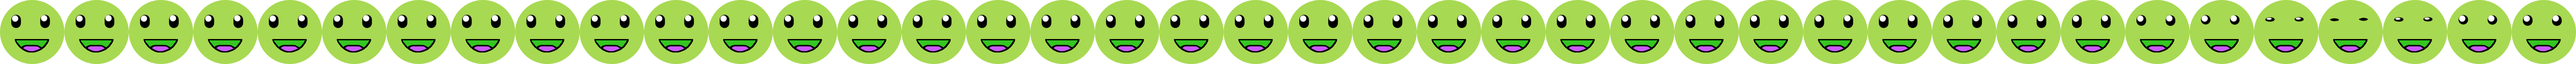
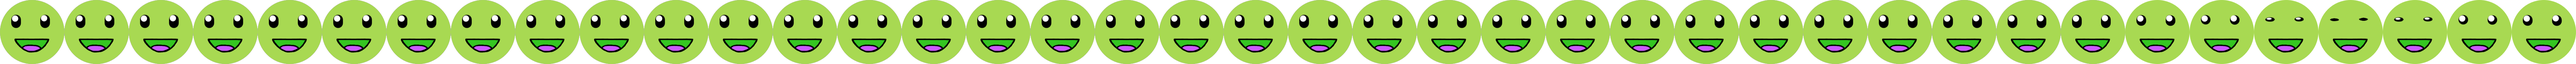
more faces

diff --git a/Code/core/src/edu/cornell/gdiac/controller/PlayMode.java b/Code/core/src/edu/cornell/gdiac/controller/PlayMode.java
@@ -62,11 +62,10 @@ public class PlayMode extends WorldController implements ContactListener {
 
 
     protected static final String OOB_NORMAL_FILE =   "space/animations/OobNeutral.png";
-    //"space/planets/start.png";
-    protected static final String OOB_GROWING_FILE = "space/animations/blackHoleAnim.png";
+    protected static final String OOB_GROWING_FILE = "space/animations/OobEating.png";
     protected static final String OOB_COMMAND_FILE = "space/animations/explosionAnim.png";
     protected static final String OOB_FLYING_FILE = "space/animations/OobBlink.png";
-    protected static final String OOB_TELEPORTING_FILE = "space/animations/oobHappy.png";
+    protected static final String OOB_TELEPORTING_FILE = "space/animations/OobSurprised.png";
     protected static final String OOB_HURTING_FILE = "space/animations/OobSad.png";
     protected static final String OOB_DYING_FILE = "space/animations/OobDying.png";
     protected static final String OOB_MAX_FILE = "space/animations/sunAnim.png";
@@ -114,7 +113,7 @@ public class PlayMode extends WorldController implements ContactListener {
     protected static final String RED_P_3 = "space/planets/red3.png";
     //private static final String RED_P_4 = "space/planets/red.png";
 
-    protected static final String ASTEROID = "space/planets/asteroid.png";
+    protected static final String ASTEROID = "space/planets/asteroidBelt.png";
 
     /** The texture file for the planet animations */
     protected static final String SUN_P = "space/animations/sunAnim.png";
@@ -961,7 +960,7 @@ public class PlayMode extends WorldController implements ContactListener {
             obj.setFriction(BASIC_FRICTION);
             obj.setRestitution(BASIC_RESTITUTION);
             obj.setDrawScale(scale);
-            obj.scalePicScale(new Vector2(.2f * obj.getRadius(), .2f * obj.getRadius()));
+            obj.scalePicScale(new Vector2(.19f * obj.getRadius(), .19f * obj.getRadius()));
             obj.setName(pname);
             if (obj.getType() == 0f || obj.getType() == 3f) {
 
@@ -1960,24 +1959,25 @@ public class PlayMode extends WorldController implements ContactListener {
                     if ( ((ComplexOobModel) obj).isDying() ) {
                         currentFrame =  ((ComplexOobModel) obj).get_Dying_anim().getKeyFrame(stateTime, true);
                     }
+                    ((ComplexOobModel) obj).setTexture(currentFrame);
 
-                    Texture texture = currentFrame.getTexture();
-                    if(!texture.getTextureData().isPrepared())
-                        texture.getTextureData().prepare();
-                    Pixmap pixmap = texture.getTextureData().consumePixmap();
-                    Pixmap newPixmap = new Pixmap(currentFrame.getRegionWidth(), currentFrame.getRegionHeight(), pixmap.getFormat());
+//                    Texture texture = currentFrame.getTexture();
+//                    if(!texture.getTextureData().isPrepared())
+//                        texture.getTextureData().prepare();
+//                    Pixmap pixmap = texture.getTextureData().consumePixmap();
+//                    Pixmap newPixmap = new Pixmap(currentFrame.getRegionWidth(), currentFrame.getRegionHeight(), pixmap.getFormat());
+//
+//                    newPixmap.drawPixmap(pixmap, 0, 0, currentFrame.getRegionWidth(), 0, currentFrame.getRegionWidth(), currentFrame.getRegionHeight());
+//
+//                    ((ComplexOobModel) obj).setTexture(new Texture(newPixmap));
+//
+//                    ((ComplexOobModel)obj).draw();
+//                    newPixmap.dispose();
+//                    pixmap.dispose();
 
-                    newPixmap.drawPixmap(pixmap, 0, 0, currentFrame.getRegionWidth(), 0, currentFrame.getRegionWidth(), currentFrame.getRegionHeight());
-
-                    ((ComplexOobModel) obj).setTexture(new Texture(newPixmap));
-
-                    ((ComplexOobModel)obj).draw();
-                    newPixmap.dispose();
-                    pixmap.dispose();
-
-//                    canvas.begin();
-//                    obj.draw(canvas);
-//                    canvas.end();
+                    canvas.begin();
+                    obj.draw(canvas);
+                    canvas.end();
                 }
                 if (obj.getName().equals("planet") && ((PlanetModel) obj).getType() == 2 ) {
                     // Get current frame of animation for the current stateTime

diff --git a/Code/core/src/edu/cornell/gdiac/model/ComplexOobModel.java b/Code/core/src/edu/cornell/gdiac/model/ComplexOobModel.java
@@ -351,8 +351,9 @@ public class ComplexOobModel extends ComplexObstacle {
      *
      * @param value  the object texture for drawing purposes.
      */
-    public void setTexture(Texture value) {
-        img = value;
+    public void setTexture(TextureRegion value) {
+        //img = value;
+        center.setTexture(value);
     }
 
     public void scalePicScale(Vector2 v) {
@@ -493,7 +494,7 @@ public class ComplexOobModel extends ComplexObstacle {
     public void createNormaltex() {
 
         // Constant rows and columns of the sprite sheet
-        int FRAME_COLS = 5, FRAME_ROWS = 5;
+        int FRAME_COLS = 8, FRAME_ROWS = 7;
 
         // Use the split utility method to create a 2D array of TextureRegions. This is
         // possible because this sprite sheet contains frames of equal size and they are
@@ -513,14 +514,14 @@ public class ComplexOobModel extends ComplexObstacle {
         }
 
         // Initialize the Animation with the frame interval and array of frames
-        Normal_Animation = new Animation<TextureRegion>(.1f, frames);
+        Normal_Animation = new Animation<TextureRegion>(.05f, frames);
 
     }
 
     public void createGrowingtex() {
 
         // Constant rows and columns of the sprite sheet
-        int FRAME_COLS = 12, FRAME_ROWS = 1;
+        int FRAME_COLS = 6, FRAME_ROWS = 5;
 
         // Use the split utility method to create a 2D array of TextureRegions. This is
         // possible because this sprite sheet contains frames of equal size and they are
@@ -540,7 +541,7 @@ public class ComplexOobModel extends ComplexObstacle {
         }
 
         // Initialize the Animation with the frame interval and array of frames
-        Growing_Animation = new Animation<TextureRegion>(.3f, frames);
+        Growing_Animation = new Animation<TextureRegion>(.1f, frames);
 
 
         // this.scalePicScale(new Vector2(1.8f,1.8f));
@@ -606,7 +607,7 @@ public class ComplexOobModel extends ComplexObstacle {
     public void createTeleportingtex() {
 
         // Constant rows and columns of the sprite sheet
-        int FRAME_COLS = 8, FRAME_ROWS = 1;
+        int FRAME_COLS = 3, FRAME_ROWS = 2;
 
         // Use the split utility method to create a 2D array of TextureRegions. This is
         // possible because this sprite sheet contains frames of equal size and they are
@@ -626,7 +627,7 @@ public class ComplexOobModel extends ComplexObstacle {
         }
 
         // Initialize the Animation with the frame interval and array of frames
-        Teleporting_Animation = new Animation<TextureRegion>(.05f, frames);
+        Teleporting_Animation = new Animation<TextureRegion>(.1f, frames);
 
     }
 

diff --git a/Code/core/src/edu/cornell/gdiac/controller/SettingsMode.java b/Code/core/src/edu/cornell/gdiac/controller/SettingsMode.java
@@ -438,7 +438,7 @@ public class SettingsMode extends WorldController implements ContactListener {
             obj.setFriction(BASIC_FRICTION);
             obj.setRestitution(BASIC_RESTITUTION);
             obj.setDrawScale(scale);
-            obj.scalePicScale(new Vector2(.2f * obj.getRadius(), .2f * obj.getRadius()));
+            obj.scalePicScale(new Vector2(.19f * obj.getRadius(), .19f * obj.getRadius()));
             obj.setName(pname + ii);
             obj.setTexture(TEXTURES[ii][0]);
             addObject(obj);

diff --git a/Code/core/src/edu/cornell/gdiac/controller/PauseMenu.java b/Code/core/src/edu/cornell/gdiac/controller/PauseMenu.java
@@ -141,7 +141,7 @@ public class PauseMenu extends PlayMode {
             obj.setFriction(BASIC_FRICTION);
             obj.setRestitution(BASIC_RESTITUTION);
             obj.setDrawScale(scale);
-            obj.scalePicScale(new Vector2(.2f * obj.getRadius(), .2f * obj.getRadius()));
+            obj.scalePicScale(new Vector2(.19f * obj.getRadius(), .19f * obj.getRadius()));
             obj.setName(pname + ii);
             obj.setTexture(TEXTURES[ii][0]);
             addObject(obj);

diff --git a/Code/core/src/edu/cornell/gdiac/controller/MainMenu.java b/Code/core/src/edu/cornell/gdiac/controller/MainMenu.java
@@ -142,7 +142,7 @@ public class MainMenu extends PlayMode {
             obj.setFriction(BASIC_FRICTION);
             obj.setRestitution(BASIC_RESTITUTION);
             obj.setDrawScale(scale);
-            obj.scalePicScale(new Vector2(.2f * obj.getRadius(), .2f * obj.getRadius()));
+            obj.scalePicScale(new Vector2(.19f * obj.getRadius(), .19f * obj.getRadius()));
             obj.setName(pname + ii);
             obj.setTexture(TEXTURES[ii][0]);
             addObject(obj);
